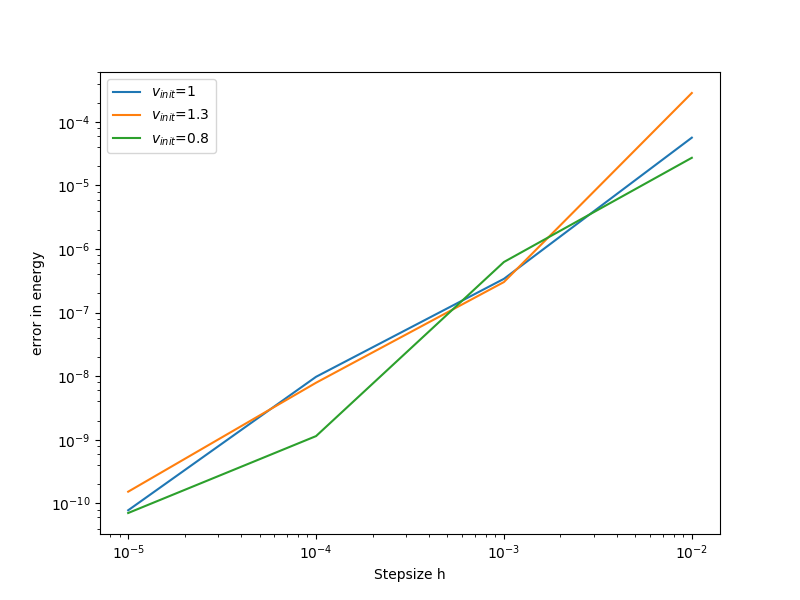
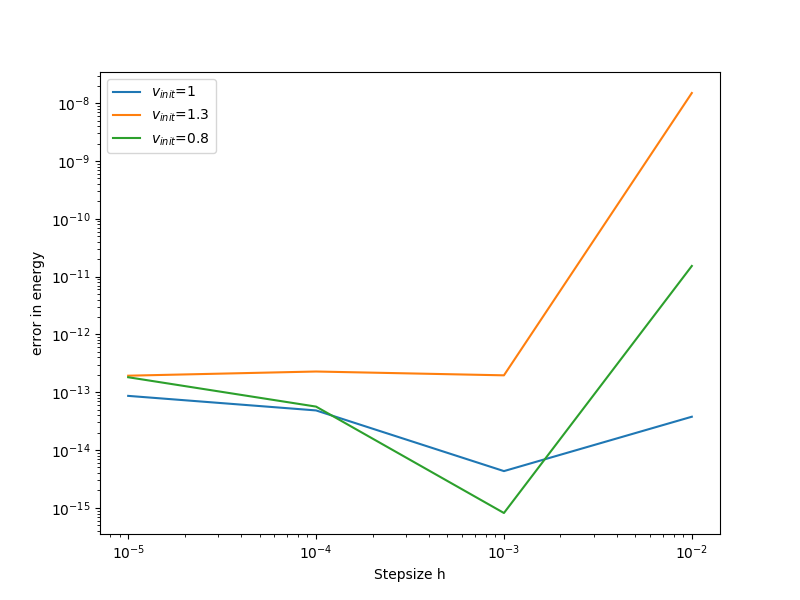
add dir for sheet no 4

diff --git a/Ex02/Exercise02b.py b/Ex02/Exercise02b.py
@@ -22,7 +22,7 @@ def leapfrog(v_0, h, s_0 = np.array([0, 1])):
         S.append(S[-1] + h*vhalf)
         a.append(-1*(np.array([(S[-1])[0], (S[-1])[1]]))/(((S[-1]**2)[0] + (S[-1]**2)[1])**1.5))
         V.append(vhalf + 0.5*h*a[-1])
-        E.append((0.5*(V[-1]**2)[0] + (V[-1]**2)[1]) - (1/((S[-1]**2)[0] + (S[-1]**2)[1])**0.5))
+        E.append((0.5*((V[-1]**2)[0] + (V[-1]**2)[1])) - (1/((S[-1]**2)[0] + (S[-1]**2)[1])**0.5))
 
         if ((S[-1])[0] < 0):
             test = 1
